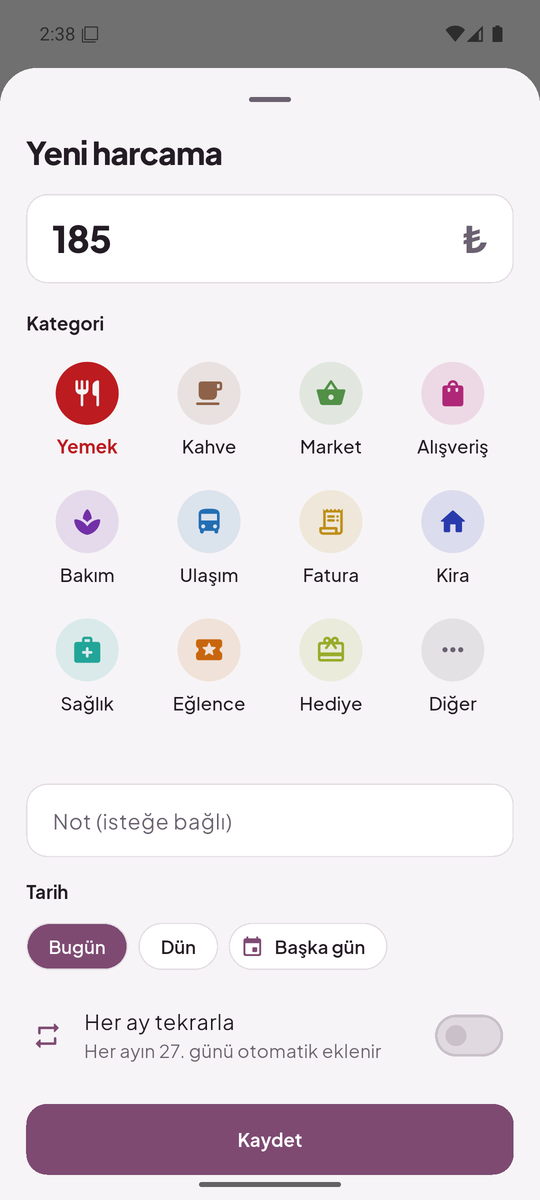
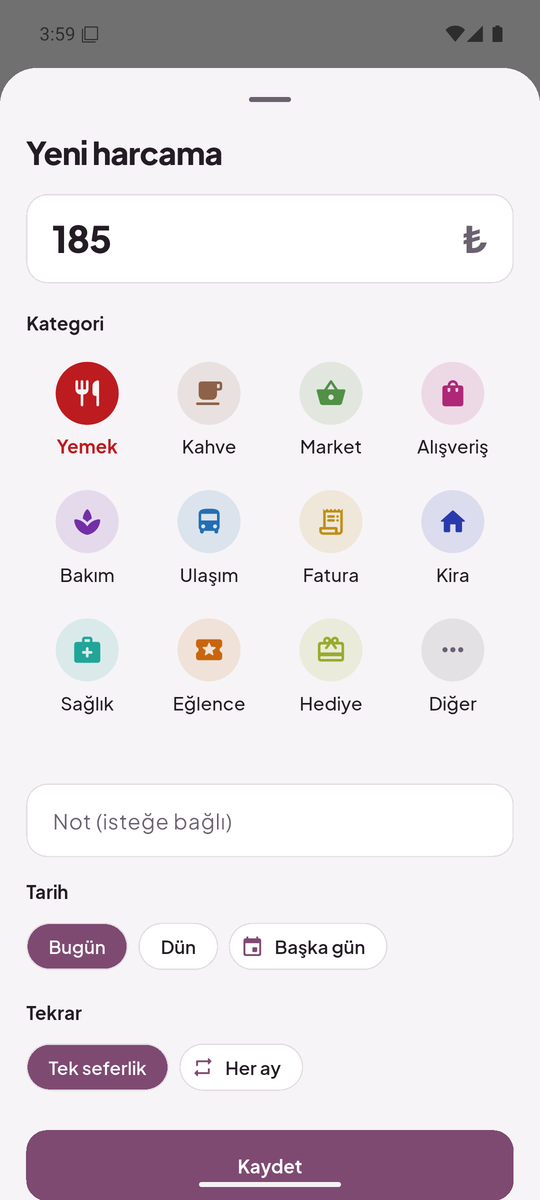
docs: update README and screenshots

Changed region(s): [[0.0296, 0.8325, 0.9481, 1.0]]

diff --git a/README.md b/README.md
@@ -17,12 +17,12 @@
 
 ## Features
 
-- **Remaining balance at a glance.** The summary shows what is left of this period's salary, how much has been spent, and a daily limit that keeps you on budget until payday.
+- **Remaining balance at a glance.** The summary shows what is left of this period's salary, how much has been spent, and how many days are left until payday.
 - **Custom payday.** Periods run from payday to payday (for example the 15th to the 14th), not just calendar months. Short months are handled automatically.
 - **Fast expense entry.** Type the amount, tap a category, done. Shortcuts for today and yesterday, and an optional note.
 - **Colored categories.** Twelve categories, each with its own color and icon, plus a breakdown of where the money went.
 - **Calendar view.** See daily totals and category dots for every day of the month, and tap a day to see its expenses.
-- **Recurring expenses.** Rent, bills and subscriptions are added automatically on the same day every month, including months the app was not opened.
+- **Recurring expenses.** Choose "every month" while adding an expense, and rent, bills or subscriptions are added automatically on the same day each month, including months the app was not opened.
 - **Undo.** Swipe an expense away to delete it, and undo if it was a mistake.
 - **Excel export.** Save every expense and a per-period summary as an `.xlsx` file.
 - **Light and dark themes**, following the system or set manually.
